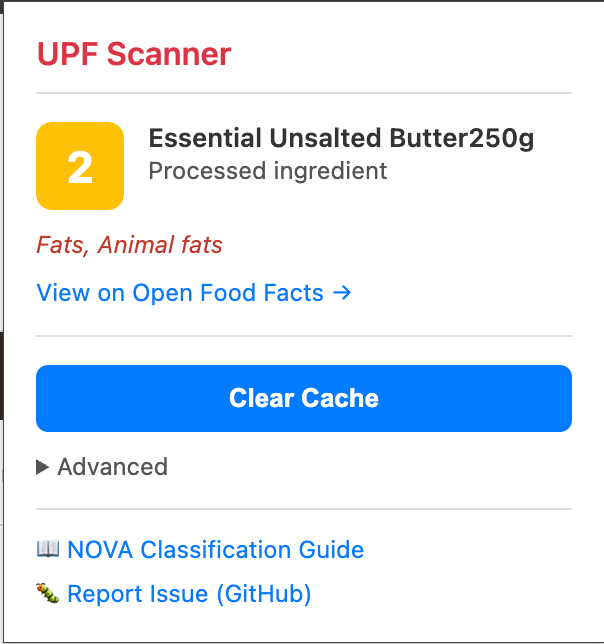
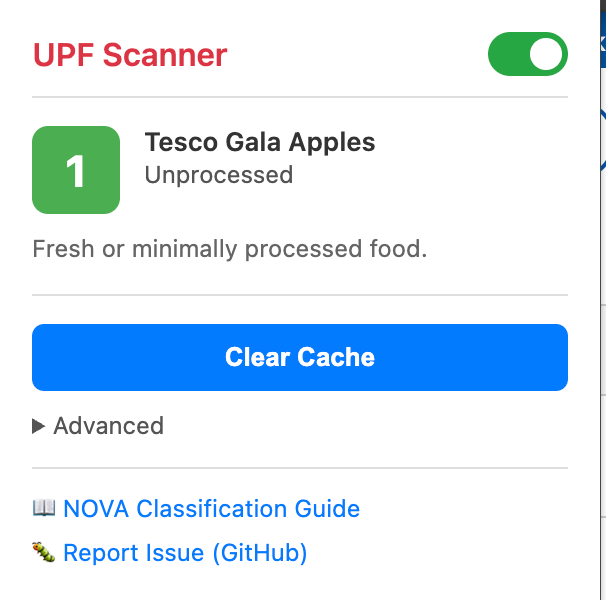
docs: add toggle screenshots to README popup section
Show enabled and disabled states side-by-side and list the enable/disable toggle as a popup feature.

Changed region(s): [[0.0, 0.0, 1.0, 1.0], [0.0596, 0.9, 0.5364, 0.96], [0.0596, 0.06, 0.3874, 0.12]]

diff --git a/README.md b/README.md
@@ -126,10 +126,13 @@ Click the extension icon on any supported product page to see:
 - The product's NOVA score with name and classification label
 - Why it was classified (NOVA 4 indicator ingredients, if applicable)
 - A link to the product on Open Food Facts
+- Enable/disable toggle to pause all badges and API calls
 - Settings (clear cache, toggle debug mode)
 - Links to the NOVA Classification Guide and GitHub issue tracker
 
-![UPF Scanner popup showing NOVA 2 rating for Essential Unsalted Butter on Waitrose](docs/screenshots/PopUPUI.png)
+| Enabled | Disabled |
+|---------|----------|
+| ![UPF Scanner popup — extension enabled](docs/screenshots/PopUpUI.png) | ![UPF Scanner popup — extension disabled](docs/screenshots/PopUpUiDisabled.png) |
 
 ---
 
